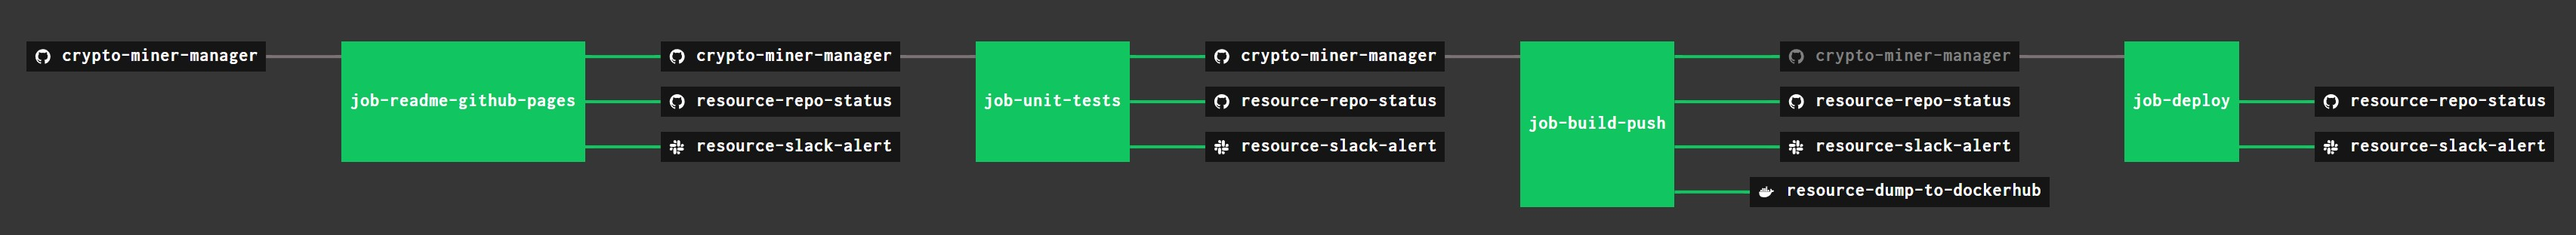
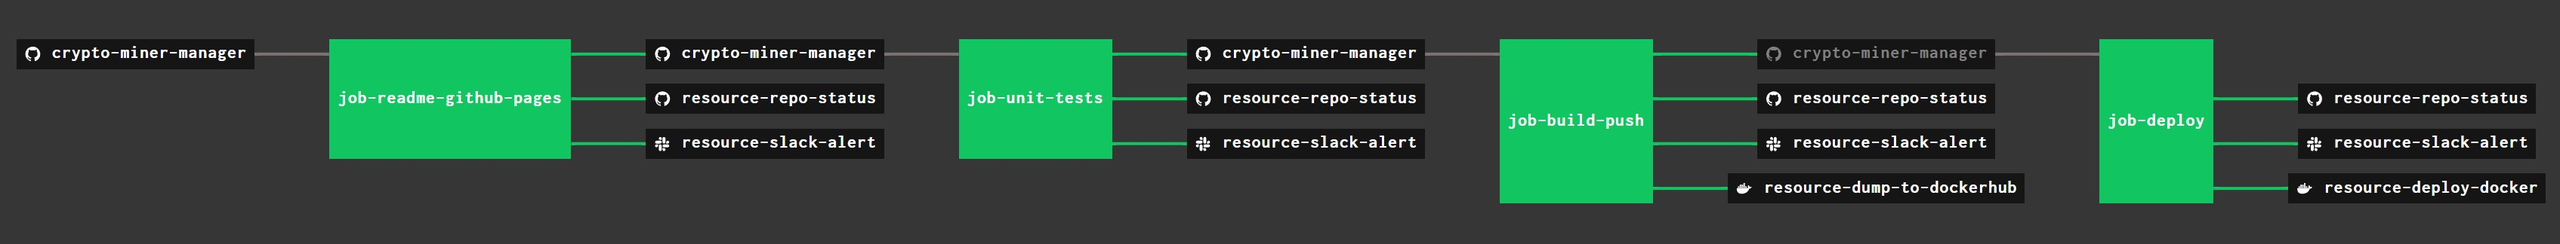
updated concourse ci README and added a ci pipeline pic

Changed region(s): [[0.0, 0.1442, 1.0, 0.8942]]

diff --git a/ci-README.md b/ci-README.md
@@ -47,6 +47,9 @@ The concourse `resources types` are,
 * `resource-dump-to-dockerhub` uses a resource type
   [docker-image](https://hub.docker.com/r/concourse/docker-image-resource/)
   to PUSH a docker image to dockerhub.
+* `resource-deploy-docker` uses a resource type
+  [docker-image](https://hub.docker.com/r/jeffdecola/concourse-deploy-docker-resource/)
+  to DEPLOY a docker image to docker.
 * `resource-slack-alert` uses a resource type
   [docker image](https://hub.docker.com/r/cfcommunity/slack-notification-resource)
   that will notify slack on your progress
